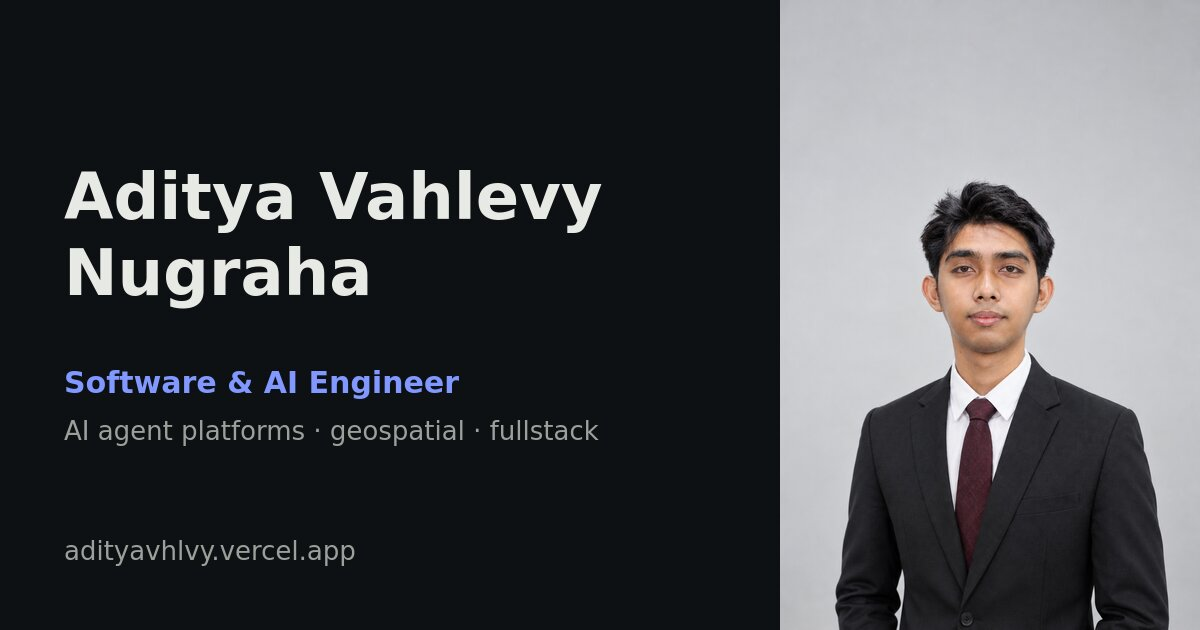
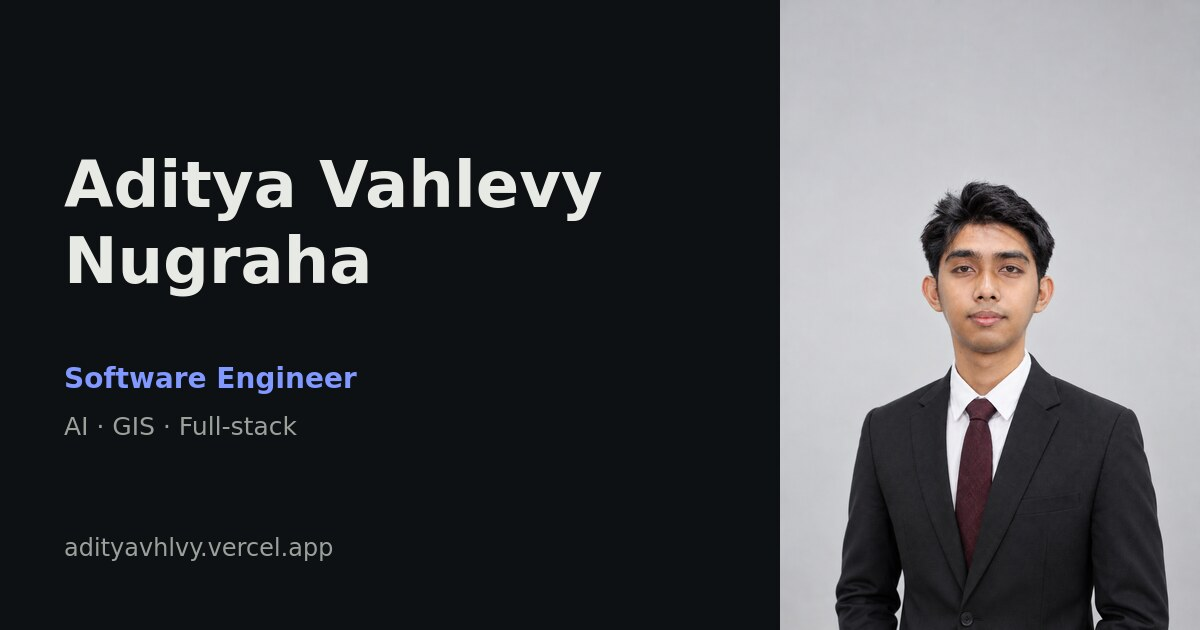
Update role, social card, and positioning copy
Switch the site to "Software Engineer" with AI, GIS, and full-stack
as tools. Regenerate og.jpg from a new script (bun run og), refresh
hero, home about, and meta descriptions, and add a thank-you section
to the about page.

diff --git a/rsbuild.config.ts b/rsbuild.config.ts
@@ -7,9 +7,9 @@ const { publicVars } = loadEnv({ prefixes: ["PUBLIC_"] });
 
 const SITE_URL = "https://adityavhlvy.vercel.app";
 const DEFAULT_IMAGE = "/assets/og.jpg";
-const SITE_TITLE = "Aditya Vahlevy Nugraha (adityavhlvy) | Software & AI Engineer";
+const SITE_TITLE = "Aditya Vahlevy Nugraha (adityavhlvy) | Software Engineer";
 const SITE_DESCRIPTION =
-  "Portfolio of Aditya Vahlevy Nugraha (adityavhlvy), Software and AI Engineer at Pupuk Indonesia. AI agent platforms, geospatial planning, and fullstack systems.";
+  "Portfolio of Aditya Vahlevy Nugraha (adityavhlvy), Software Engineer at Pupuk Indonesia. AI, GIS, and full-stack systems that turn business processes into software.";
 
 const escapeAttr = (s: string) => s.replace(/&/g, "&amp;").replace(/"/g, "&quot;").replace(/</g, "&lt;");
 
@@ -35,7 +35,7 @@ function pages(root: string): Page[] {
     alternateName: "adityavhlvy",
     url: SITE_URL,
     image: `${SITE_URL}/assets/profile.webp`,
-    jobTitle: "Software & AI Engineer",
+    jobTitle: "Software Engineer",
     worksFor: { "@type": "Organization", name: "Pupuk Indonesia" },
     alumniOf: { "@type": "CollegeOrUniversity", name: "Universitas Pertamina" },
     email: `mailto:${profile.contact.email}`,
@@ -43,9 +43,9 @@ function pages(root: string): Page[] {
   };
   return [
     { path: "/", title: SITE_TITLE, description: SITE_DESCRIPTION, jsonLd: person },
-    { path: "/projects", title: "Work | adityavhlvy", description: "Every project by Aditya Vahlevy Nugraha: AI agent platforms, geospatial planning, logistics, and fullstack apps." },
+    { path: "/projects", title: "Work | adityavhlvy", description: "Every project by Aditya Vahlevy Nugraha: AI agent platforms, geospatial planning, logistics, and full-stack apps." },
     { path: "/blog", title: "Blog | adityavhlvy", description: "Notes on AI routing, geospatial systems, and building platforms at Pupuk Indonesia." },
-    { path: "/about", title: "About | adityavhlvy", description: "Aditya Vahlevy Nugraha, Software & AI Engineer. Computer Science cum laude, Universitas Pertamina.", jsonLd: person },
+    { path: "/about", title: "About | adityavhlvy", description: "Aditya Vahlevy Nugraha, Software Engineer turning business processes into software. Computer Science cum laude, Universitas Pertamina.", jsonLd: person },
     { path: "/certifications", title: "Credentials | adityavhlvy", description: "Certifications and credentials of Aditya Vahlevy Nugraha." },
     { path: "/contact", title: "Contact | adityavhlvy", description: "Email, phone, LinkedIn, GitHub, GitLab, Instagram, and Spotify for Aditya Vahlevy Nugraha." },
     { path: "/hire", title: "Hire me | adityavhlvy", description: "Freelance AI integration and automation, maps and geospatial apps, and software development by Aditya Vahlevy Nugraha. Send a brief." },

diff --git a/scripts/build-og.ts b/scripts/build-og.ts
@@ -1,0 +1,37 @@
+// Renders public/assets/og.jpg, the 1200x630 social card. Run: bun run og
+// Needs ImageMagick 7 (`magick`) and DejaVu Sans. Edit the copy below, then rerun.
+import { join } from "node:path";
+
+const ROOT = join(import.meta.dir, "..");
+const PHOTO = join(ROOT, "../portfolio-data/assets/profile-photos/professional-portrait-in-charcoal-suit.png");
+const OUT = join(ROOT, "public/assets/og.jpg");
+
+const NAME = ["Aditya Vahlevy", "Nugraha"];
+const ROLE = "Software Engineer";
+const FOCUS = "AI · GIS · Full-stack";
+const URL = "adityavhlvy.vercel.app";
+
+// Dark theme tokens from src/styles.css.
+const PAPER = "#0e1113";
+const INK = "#e7e9e4";
+const MUTE = "#9aa19b";
+const SEA = "#8098ff";
+
+const text = (font: string, size: number, color: string, y: number, value: string) =>
+  ["-font", font, "-pointsize", String(size), "-fill", color, "-annotate", `+64+${y}`, value];
+
+const args = [
+  "-size", "1200x630", `xc:${PAPER}`,
+  "(", PHOTO, "-resize", "420x630^", "-gravity", "center", "-extent", "420x630", ")",
+  "-gravity", "northwest", "-geometry", "+780+0", "-composite",
+  ...text("DejaVu-Sans-Bold", 64, INK, 158, NAME[0]),
+  ...text("DejaVu-Sans-Bold", 64, INK, 234, NAME[1]),
+  ...text("DejaVu-Sans-Bold", 28, SEA, 366, ROLE),
+  ...text("DejaVu-Sans", 25, MUTE, 416, FOCUS),
+  ...text("DejaVu-Sans", 24, MUTE, 537, URL),
+  "-quality", "88", OUT,
+];
+
+const proc = Bun.spawnSync(["magick", ...args], { stderr: "inherit" });
+if (proc.exitCode !== 0) process.exit(proc.exitCode ?? 1);
+console.log("[og] public/assets/og.jpg");

diff --git a/index.html b/index.html
@@ -3,12 +3,12 @@
 <head>
   <meta charset="UTF-8" />
   <meta name="viewport" content="width=device-width, initial-scale=1.0" />
-  <meta name="description" content="Portfolio of Aditya Vahlevy Nugraha (adityavhlvy), Software and AI Engineer at Pupuk Indonesia. Geospatial platforms, AI agent orchestration, and fullstack systems." />
+  <meta name="description" content="Portfolio of Aditya Vahlevy Nugraha (adityavhlvy), Software Engineer at Pupuk Indonesia. AI, GIS, and full-stack systems that turn business processes into software." />
   <meta name="author" content="Aditya Vahlevy Nugraha" />
   <meta name="theme-color" content="#eceee9" media="(prefers-color-scheme: light)" />
   <meta name="theme-color" content="#0e1113" media="(prefers-color-scheme: dark)" />
-  <meta property="og:title" content="Aditya Vahlevy Nugraha (adityavhlvy) | Software &amp; AI Engineer" />
-  <meta property="og:description" content="Software and AI Engineer at Pupuk Indonesia. Geospatial platforms, AI agent orchestration, and fullstack systems." />
+  <meta property="og:title" content="Aditya Vahlevy Nugraha (adityavhlvy) | Software Engineer" />
+  <meta property="og:description" content="Software Engineer at Pupuk Indonesia. AI, GIS, and full-stack systems that turn business processes into software." />
   <meta property="og:url" content="https://adityavhlvy.vercel.app" />
   <meta property="og:site_name" content="adityavhlvy" />
   <meta property="og:image" content="https://adityavhlvy.vercel.app/assets/og.jpg" />

diff --git a/src/pages/About.tsx b/src/pages/About.tsx
@@ -12,7 +12,7 @@ const RECT = "polygon(50% 0%, 100% 0%, 100% 100%, 50% 100%, 0% 100%, 0% 0%)";
 
 export default function About() {
   useTitle("About");
-  const { bio, skills, philosophy } = profile;
+  const { bio, skills, philosophy, thanks } = profile;
 
   return (
     <>
@@ -99,6 +99,23 @@ export default function About() {
                 </li>
               ))}
             </ol>
+          </section>
+
+          <section aria-labelledby="thanks-h" className="mt-24">
+            <Reveal>
+              <h2 id="thanks-h" className="display text-3xl md:text-4xl">Thank you</h2>
+              <p className="mt-6 max-w-[62ch] leading-relaxed text-mute">{thanks.intro}</p>
+            </Reveal>
+            <dl className="mt-8">
+              {thanks.groups.map((g, i) => (
+                <Reveal key={g.context} delay={i * 0.05} y={12}>
+                  <div className="grid gap-2 border-t border-line py-5 sm:grid-cols-[11rem_1fr]">
+                    <dt className="label pt-1">{g.context}</dt>
+                    <dd className="leading-relaxed">{g.people.join(", ")}</dd>
+                  </div>
+                </Reveal>
+              ))}
+            </dl>
           </section>
 
           <Reveal className="mt-24 border-t border-ink pt-8">

diff --git a/src/pages/home/Hero.tsx b/src/pages/home/Hero.tsx
@@ -52,8 +52,8 @@ function Intro() {
         </h1>
         <Reveal delay={0.35} className="mt-10">
           <p className="max-w-[34ch] text-[clamp(1.25rem,1.7vw,1.625rem)] leading-snug">
-            {bio.current_role_detail.replace("PT ", "").replace(" (Persero)", "")}. I build AI agent platforms and the
-            maps that plan fertilizer for Indonesia.
+            {bio.current_role_detail.replace("PT ", "").replace(" (Persero)", "")}. I turn business processes into
+            software: AI agents, planning maps, and logistics tools.
           </p>
           <div className="mt-8 flex flex-wrap items-center gap-x-6 gap-y-3">
             <Magnet padding={60} magnetStrength={4} maxOffset={10}>

diff --git a/src/pages/home/AboutBrief.tsx b/src/pages/home/AboutBrief.tsx
@@ -44,7 +44,7 @@ export function AboutBrief() {
             About
           </h2>
           <p className="mt-6 text-[clamp(1.25rem,1.7vw,1.625rem)] leading-[1.4] text-ink">
-            I work where AI orchestration, geospatial intelligence and fullstack engineering meet. Before Pupuk Indonesia I
+            I learn how a business process really works, then build the software for it, from web apps to AI and maps. Before Pupuk Indonesia I
             digitised production planning at Astra Otoparts, then forecast rice yield from satellite imagery as a research
             assistant. I think about system design more than is healthy at 2am.
           </p>

diff --git a/src/pages/Hire.tsx b/src/pages/Hire.tsx
@@ -131,7 +131,7 @@ export default function Hire() {
           Open for a few side projects
         </span>
         <br />
-        I take on freelance work alongside my role at Pupuk Indonesia: AI agents, maps, and fullstack apps. Pricing depends on
+        I take on freelance work alongside my role at Pupuk Indonesia: AI agents, maps, and full-stack apps. Pricing depends on
         scope, so tell me about the project and we start from there.
       </PageIntro>
 

diff --git a/src/data/portfolio.ts b/src/data/portfolio.ts
@@ -80,6 +80,7 @@ interface Profile {
     paragraphs: string[];
   };
   skills: { category: string; items: string[] }[];
+  thanks: { intro: string; groups: { context: string; people: string[] }[] };
 }
 
 export interface Archipelago {

diff --git a/README.md b/README.md
@@ -1,7 +1,7 @@
 # Kura Ninja Client
 
-Personal portfolio of Aditya Vahlevy Nugraha, Software and AI Engineer working
-across geospatial analytics, AI agent orchestration, and fullstack engineering.
+Personal portfolio of Aditya Vahlevy Nugraha, Software Engineer working
+across geospatial analytics, AI agent orchestration, and full-stack engineering.
 
 A client-rendered React app built around one motif: Indonesia drawn as
 hexagonal map cells, which is also a turtle shell. The design system is in
@@ -41,6 +41,7 @@ bun run dev      # http://localhost:3000
 | `bun run build` | Sync data, then production build to `dist/` |
 | `bun run preview` | Serve the production build |
 | `bun run map` | Rebuild the hex map from the province CSV |
+| `bun run og` | Rebuild the social card `public/assets/og.jpg` |
 | `bun run typecheck` | `tsc --noEmit` |
 | `bun run knip` | Report unused files, deps, and exports |
 
